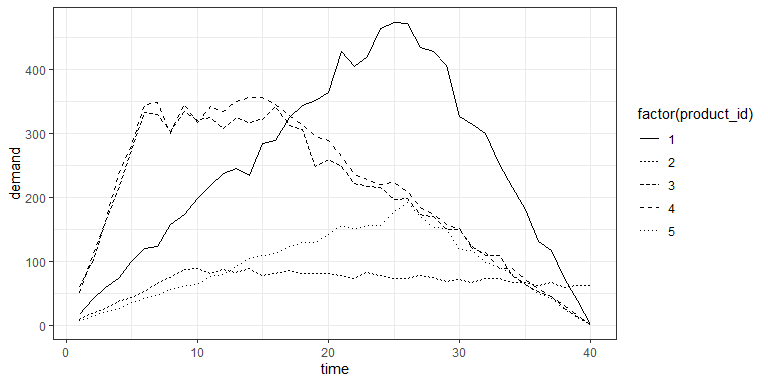
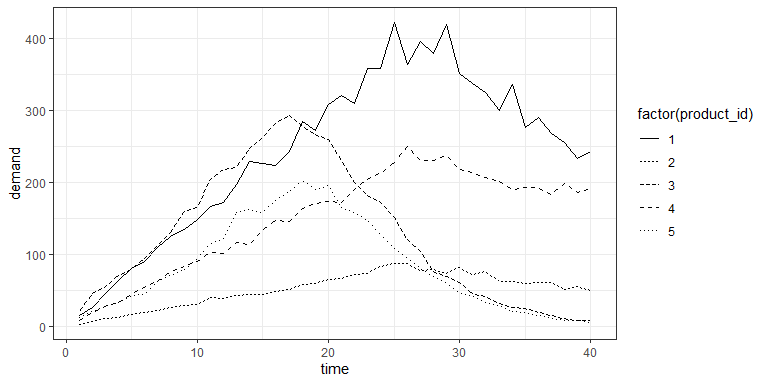
Put the code for downloading the development version of the package: # install.packages("pak") pak::pak("mohammedhichame/npdsim")

diff --git a/README.md b/README.md
@@ -26,8 +26,8 @@ You can install the development version of npdsim from
 [GitHub](https://github.com/) with:
 
 ``` r
-# install.packages("npdsim")
-library(npdsim)
+# install.packages("pak")
+pak::pak("mohammedhichame/npdsim")
 ```
 
 ## Example
@@ -47,17 +47,17 @@ str(npd_data1)
 #> 'data.frame':    8000 obs. of  13 variables:
 #>  $ product_id : int  1 1 1 1 1 1 1 1 1 1 ...
 #>  $ time       : num  1 2 3 4 5 6 7 8 9 10 ...
-#>  $ demand     : num  17 40 59 73 99 120 122 157 172 197 ...
-#>  $ attribute4 : num  0.934 0.934 0.934 0.934 0.934 ...
-#>  $ attribute5 : num  0.0639 0.0639 0.0639 0.0639 0.0639 ...
-#>  $ attribute10: num  0.479 0.479 0.479 0.479 0.479 ...
-#>  $ attribute3 : num  0.479 0.479 0.479 0.479 0.479 ...
-#>  $ attribute8 : num  0.283 0.283 0.283 0.283 0.283 ...
-#>  $ attribute7 : num  0.314 0.314 0.314 0.314 0.314 ...
-#>  $ attribute6 : num  0.319 0.319 0.319 0.319 0.319 ...
-#>  $ attribute9 : num  0.687 0.687 0.687 0.687 0.687 ...
-#>  $ attribute1 : num  0.141 0.141 0.141 0.141 0.141 ...
-#>  $ attribute2 : num  0.0032 0.0032 0.0032 0.0032 0.0032 ...
+#>  $ demand     : num  15 26 46 64 81 91 110 125 135 149 ...
+#>  $ attribute9 : num  0.961 0.961 0.961 0.961 0.961 ...
+#>  $ attribute8 : num  0.362 0.362 0.362 0.362 0.362 ...
+#>  $ attribute5 : num  0.592 0.592 0.592 0.592 0.592 ...
+#>  $ attribute1 : num  0.53 0.53 0.53 0.53 0.53 ...
+#>  $ attribute4 : num  0.228 0.228 0.228 0.228 0.228 ...
+#>  $ attribute2 : num  0.451 0.451 0.451 0.451 0.451 ...
+#>  $ attribute6 : num  0.289 0.289 0.289 0.289 0.289 ...
+#>  $ attribute10: num  0.469 0.469 0.469 0.469 0.469 ...
+#>  $ attribute3 : num  0.491 0.491 0.491 0.491 0.491 ...
+#>  $ attribute7 : num  0.741 0.741 0.741 0.741 0.741 ...
 ```
 
 We show below, the plots of demand for the products with
